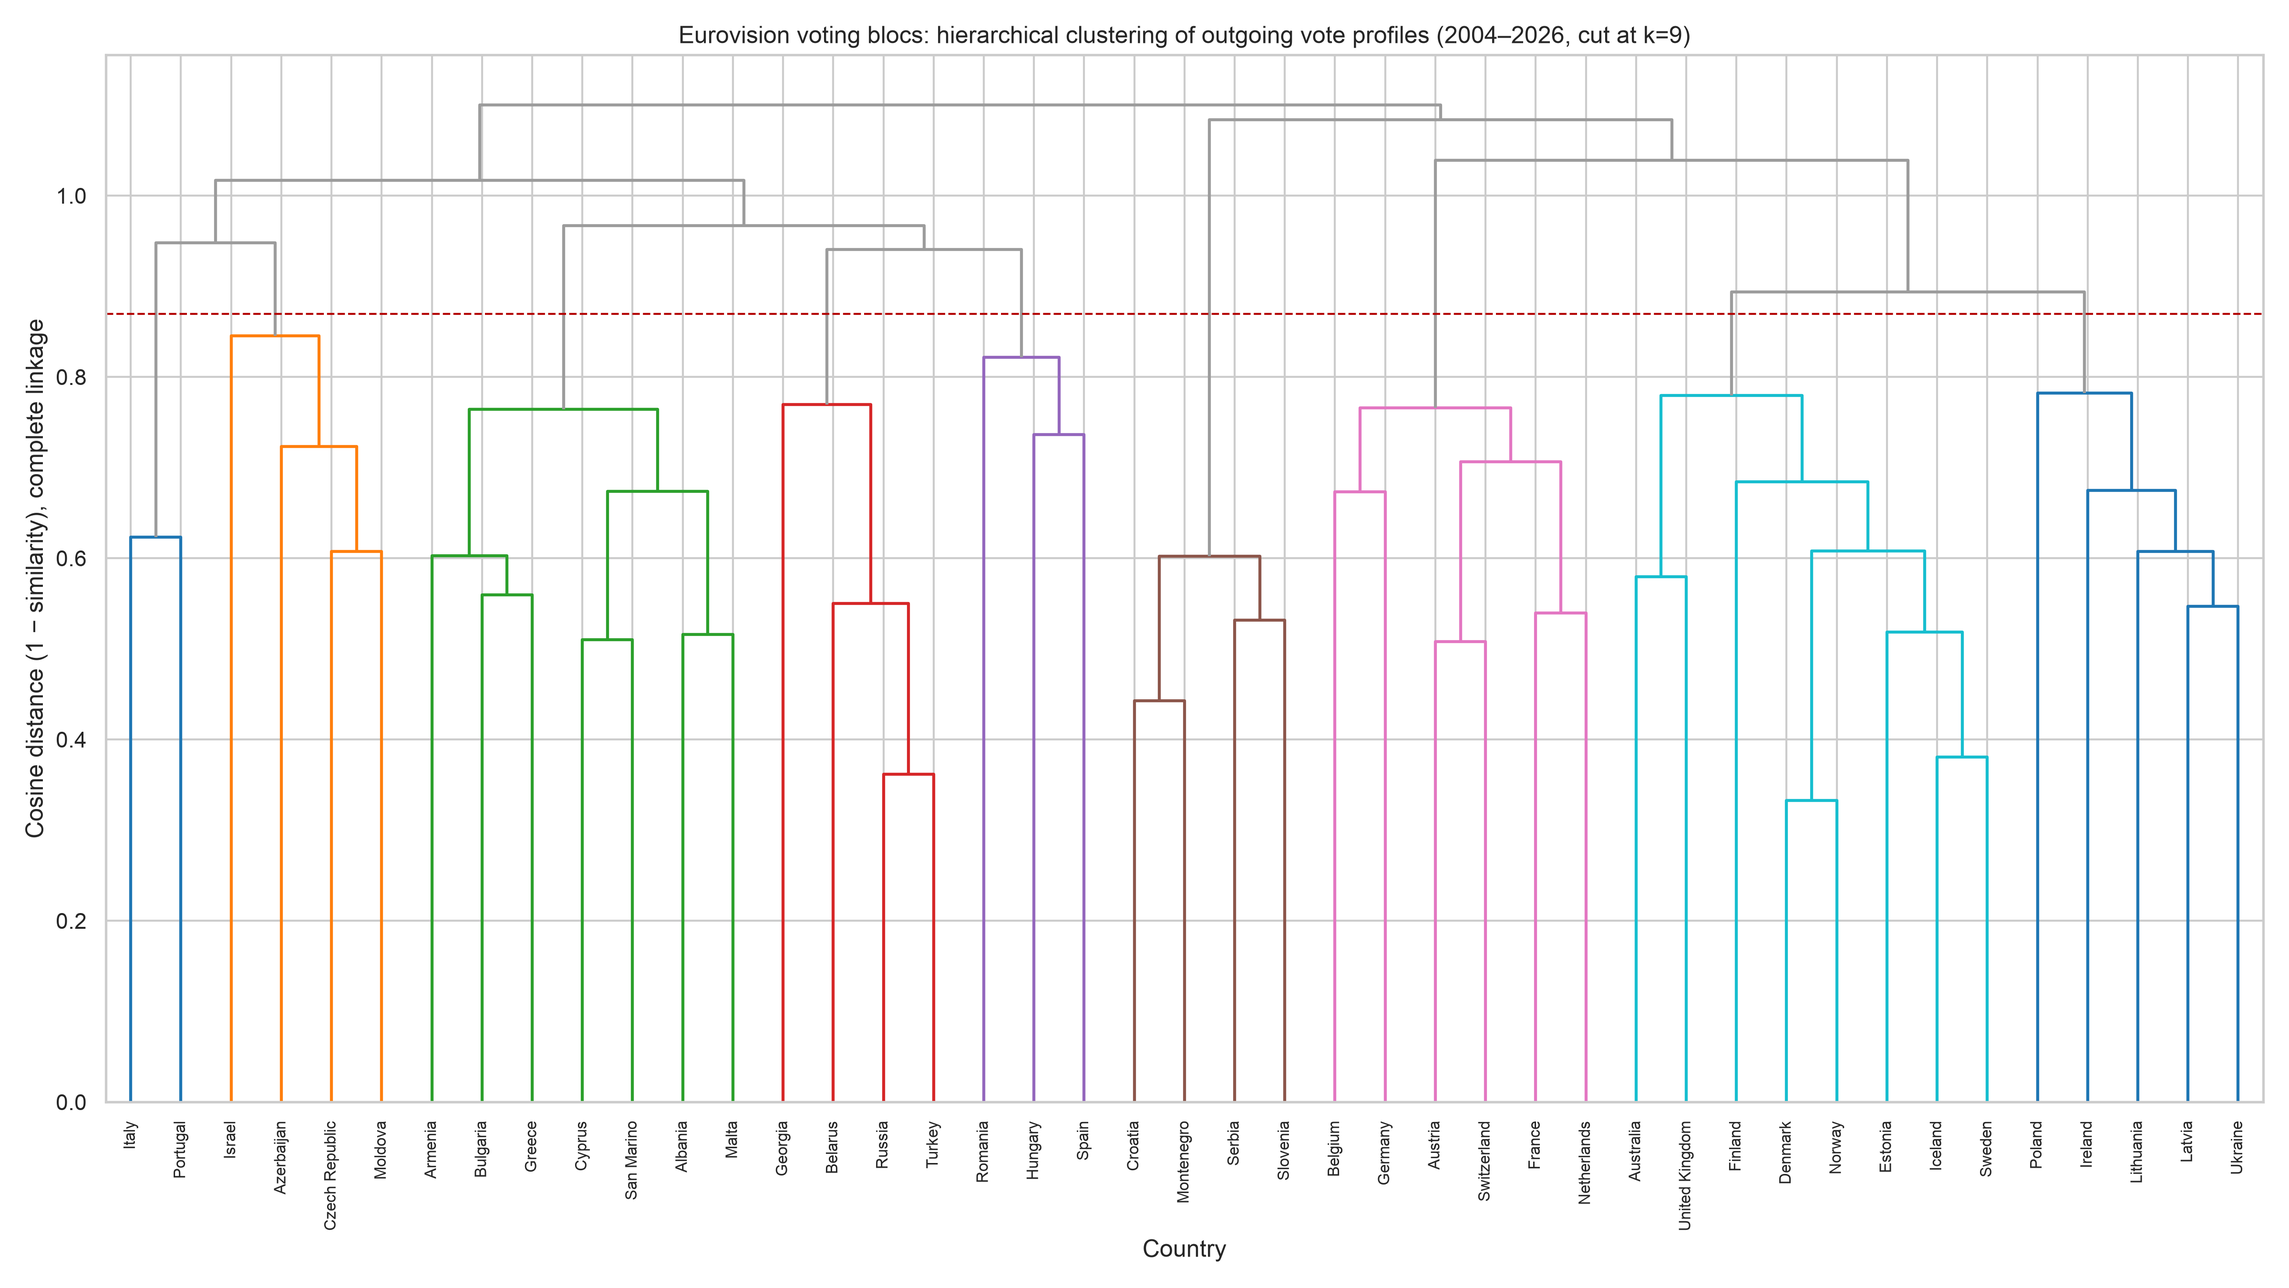
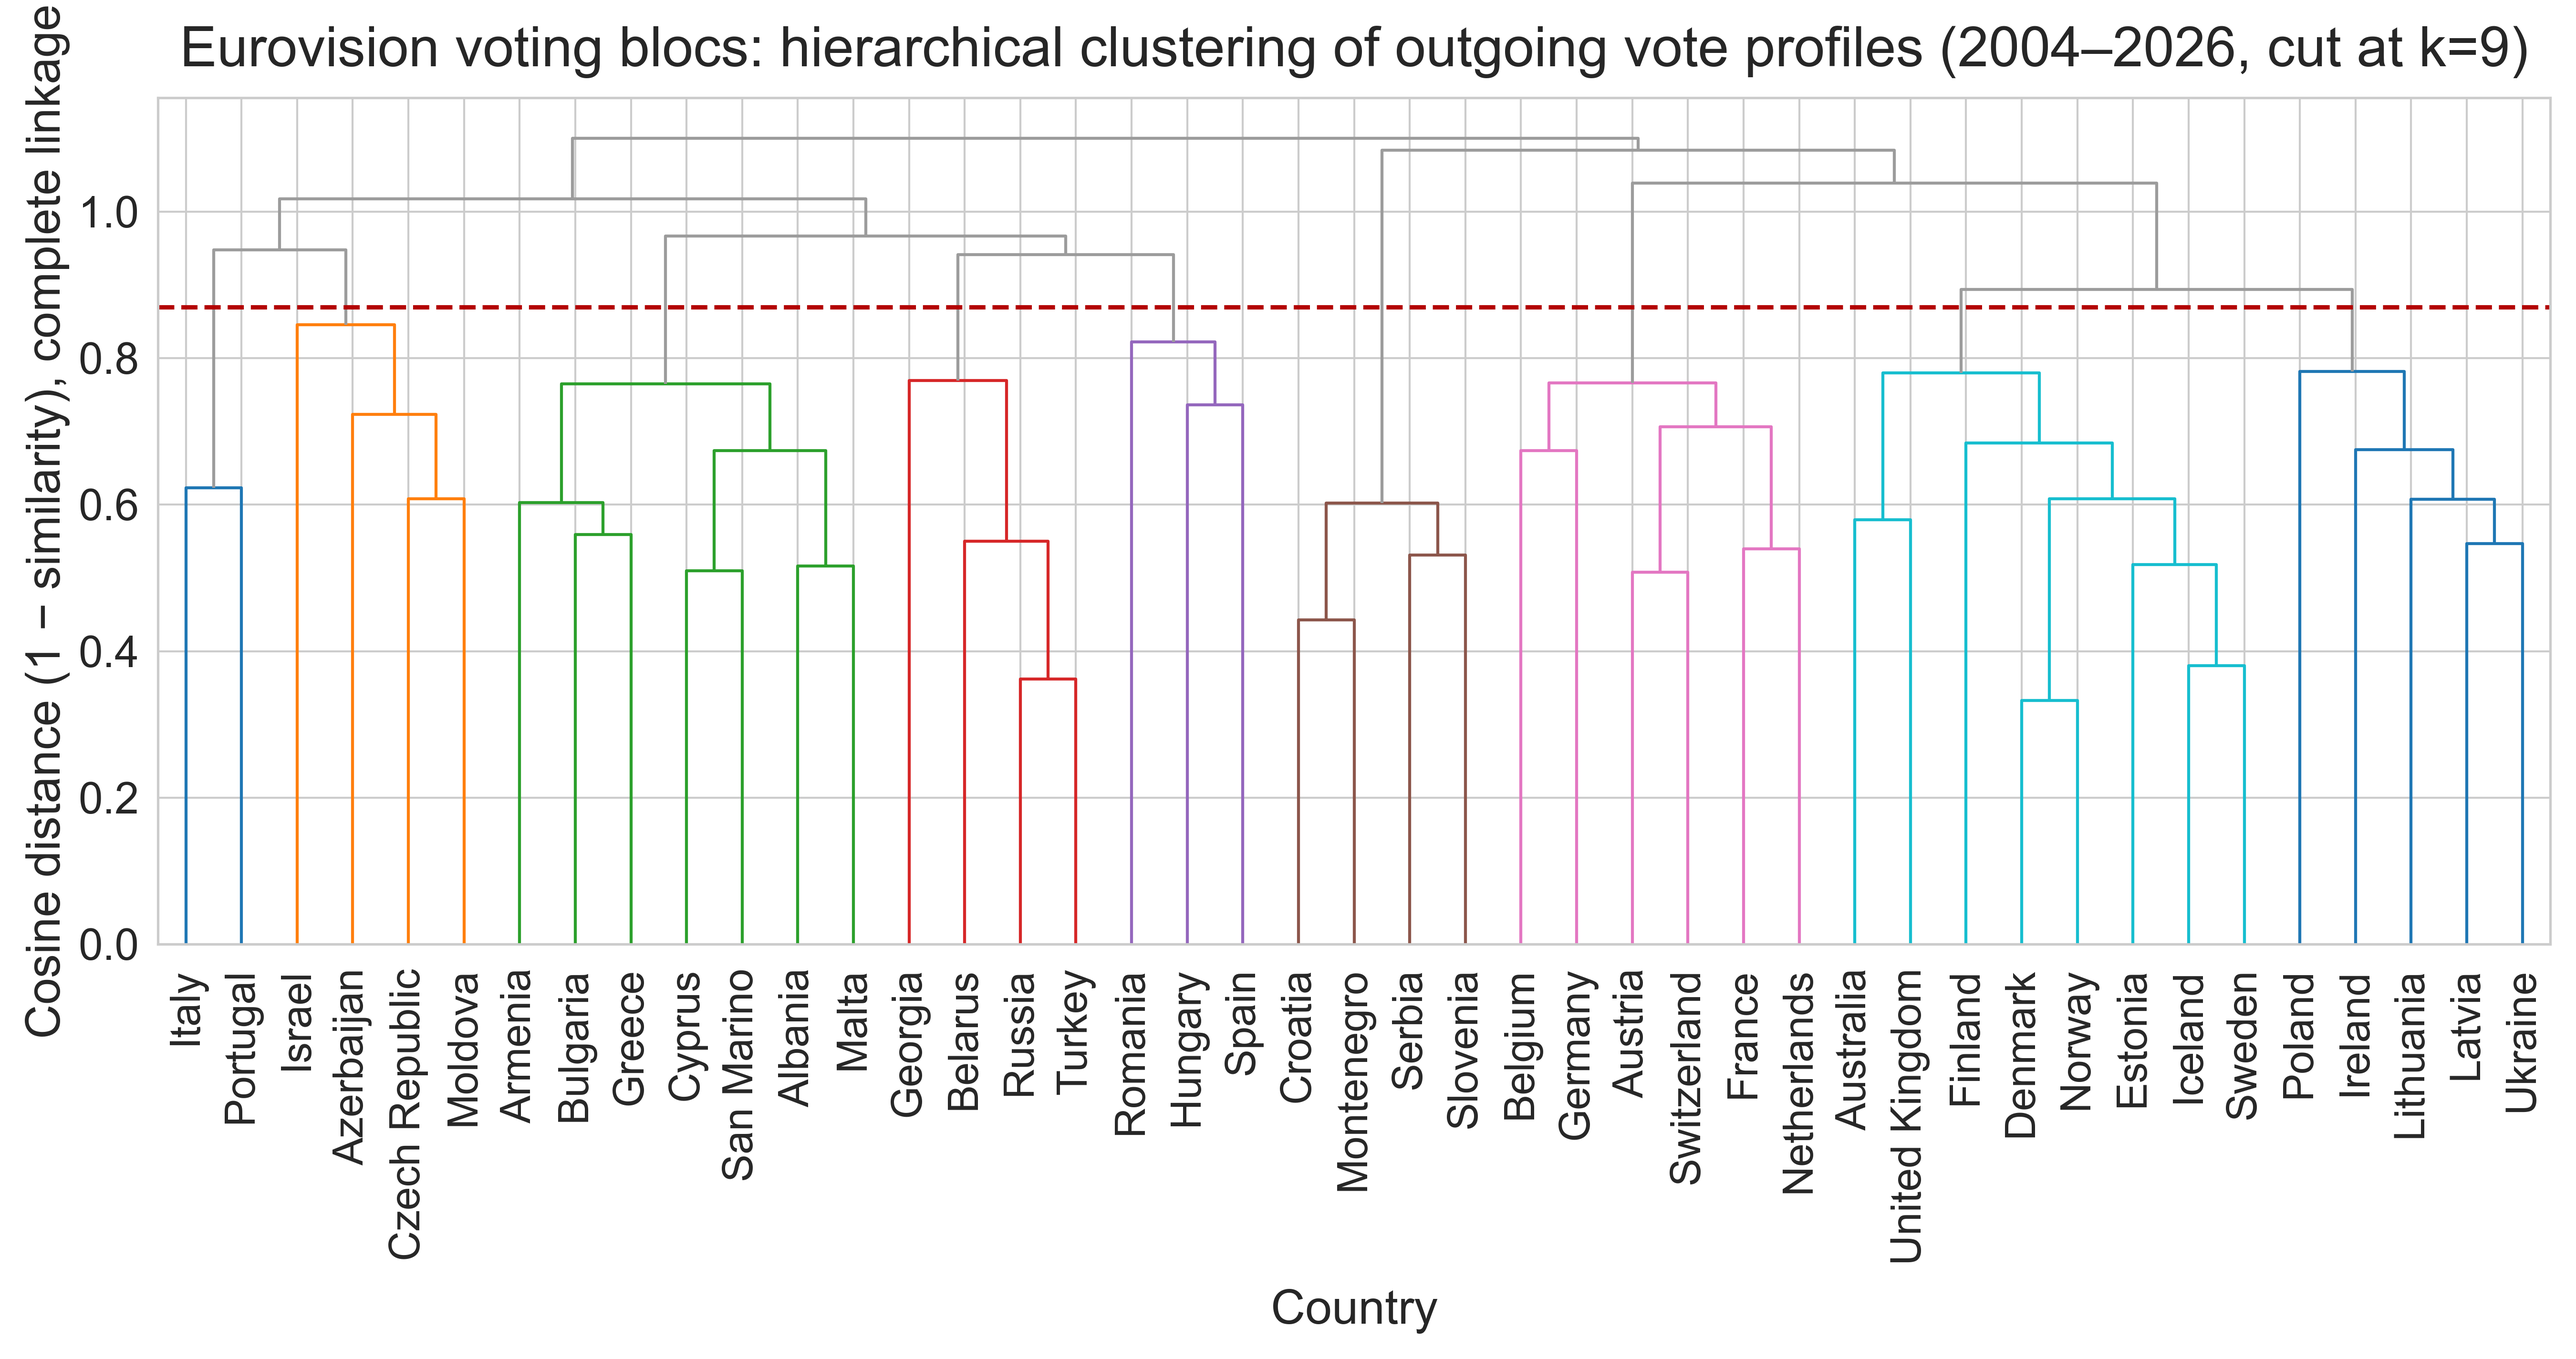
Make the dendrogram readable at paper print size
voting_blocs_dendrogram.png was unreadable without zooming once scaled
down to \textwidth in the paper: leaf labels, axis labels, and the
title were all sized for on-screen viewing, not for the ~0.4x shrink
LaTeX applies. Bumped every font size and line width to stay legible
after that shrink.

Also split the three cluster maps (full/jury/televote) out of a single
three-across figure - each map only ever printed at ~1/3 of the page
width there - into one figure stacked vertically instead, so each map
gets the full page width. Still a work in progress visually.

Changed region(s): [[0.0, 0.0, 1.0, 0.9333], [0.5, 0.9333, 0.5625, 0.9956], [0.0312, 0.84, 0.0625, 0.8711]]

diff --git a/voting_blocs/voting_blocs_clustering.py b/voting_blocs/voting_blocs_clustering.py
@@ -251,22 +251,32 @@ def plot_dendrogram(
     # scipy's default link palette contains a grey that is indistinguishable
     # from above_threshold_color, which made one bloc look like it was cut off.
     set_link_color_palette(LINK_COLORS)
-    plt.figure(figsize=(16, 9))
+    # Figures get scaled down to \textwidth in the paper (from 18in to ~6.5in,
+    # a ~0.36x factor), so every font/line size here is picked to still read
+    # comfortably after that shrink, not at this file's native resolution.
+    plt.figure(figsize=(18, 9.5))
     dendrogram(
         linkage_matrix,
         labels=list(distance.index),
         color_threshold=threshold,
         above_threshold_color="#9c9c9c",
         leaf_rotation=90,
+        leaf_font_size=21,
     )
     ax = plt.gca()
-    ax.axhline(threshold, color="#b30000", linestyle="--", linewidth=1.0)
-    ax.set_ylabel("Cosine distance (1 − similarity), complete linkage")
-    ax.set_xlabel("Country")
+    for line in ax.get_lines():
+        line.set_linewidth(2.0)
+    ax.axhline(threshold, color="#b30000", linestyle="--", linewidth=2.2)
+    ax.set_ylabel("Cosine distance (1 − similarity), complete linkage", fontsize=24)
+    ax.set_xlabel("Country", fontsize=24, labelpad=12)
     ax.set_title(
         f"Eurovision voting blocs: hierarchical clustering of outgoing vote "
-        f"profiles ({MIN_YEAR}–{MAX_YEAR}, cut at k={k})"
+        f"profiles ({MIN_YEAR}–{MAX_YEAR}, cut at k={k})",
+        fontsize=28,
+        pad=16,
     )
+    ax.tick_params(axis="y", labelsize=22)
+    ax.tick_params(axis="x", pad=6)
     plt.tight_layout()
     plt.savefig(output_path, dpi=300)
     plt.close()
@@ -458,28 +468,35 @@ def plot_cluster_maps(
     subtitles: dict[str, str],
     output_path: Path = CLUSTER_MAP_PATH,
 ) -> dict[str, list[str]]:
+    """One map+legend block per ballot (full/jury/televote), stacked
+    vertically in a single tall figure rather than three side by side.
+    Three-across meant each map only ever printed at ~1/3 of the page's
+    width once placed in the paper (the whole combined image gets scaled to
+    \\textwidth), no matter how the labels inside it were sized - stacking
+    instead lets every map use the full page width."""
     titles = {
-        "full": f"All points, {MIN_YEAR}–{MAX_YEAR}",
-        "jury": f"Jury points only, {SPLIT_MIN_YEAR}–{MAX_YEAR}",
-        "televote": f"Televote points only, {SPLIT_MIN_YEAR}–{MAX_YEAR}",
+        "full": f"Eurovision voting blocs: all points, {MIN_YEAR}–{MAX_YEAR}",
+        "jury": f"Eurovision voting blocs: jury points only, {SPLIT_MIN_YEAR}–{MAX_YEAR}",
+        "televote": f"Eurovision voting blocs: televote points only, {SPLIT_MIN_YEAR}–{MAX_YEAR}",
     }
+    # constrained_layout (not tight_layout) is what actually respects each
+    # map axes' fixed aspect(1.4) when sizing rows - tight_layout leaves the
+    # aspect-locked map shrunk inside whatever box the height_ratio gives it,
+    # which is what produced the large dead margins around each map before.
     fig, axes = plt.subplots(
-        2, 3, figsize=(21, 11.5), gridspec_kw={"height_ratios": (1.4, 1), "hspace": 0.5}
+        6, 1, figsize=(9, 21),
+        gridspec_kw={"height_ratios": (1.0, 1) * 3},
+        constrained_layout=True,
     )
     skipped: dict[str, list[str]] = {}
-    for col, key in enumerate(("full", "jury", "televote")):
+    for row, key in enumerate(("full", "jury", "televote")):
+        map_ax, legend_ax = axes[2 * row], axes[2 * row + 1]
         skipped[key] = plot_clusters_on_map(
-            axes[0, col], cluster_sets[key], colors_by_country[key], titles[key], subtitles[key]
+            map_ax, cluster_sets[key], colors_by_country[key], titles[key], subtitles[key]
         )
         draw_cluster_legend(
-            axes[1, col], cluster_sets[key], families_by_set[key], id_colors_by_set[key]
+            legend_ax, cluster_sets[key], families_by_set[key], id_colors_by_set[key]
         )
-    fig.suptitle(
-        "Eurovision voting blocs: hierarchical clusters of outgoing vote profiles, on a geographic layout",
-        fontsize=16,
-        y=0.97,
-    )
-    plt.tight_layout(rect=(0, 0.04, 1, 0.94))
     plt.savefig(output_path, dpi=300)
     plt.close(fig)
     return skipped
